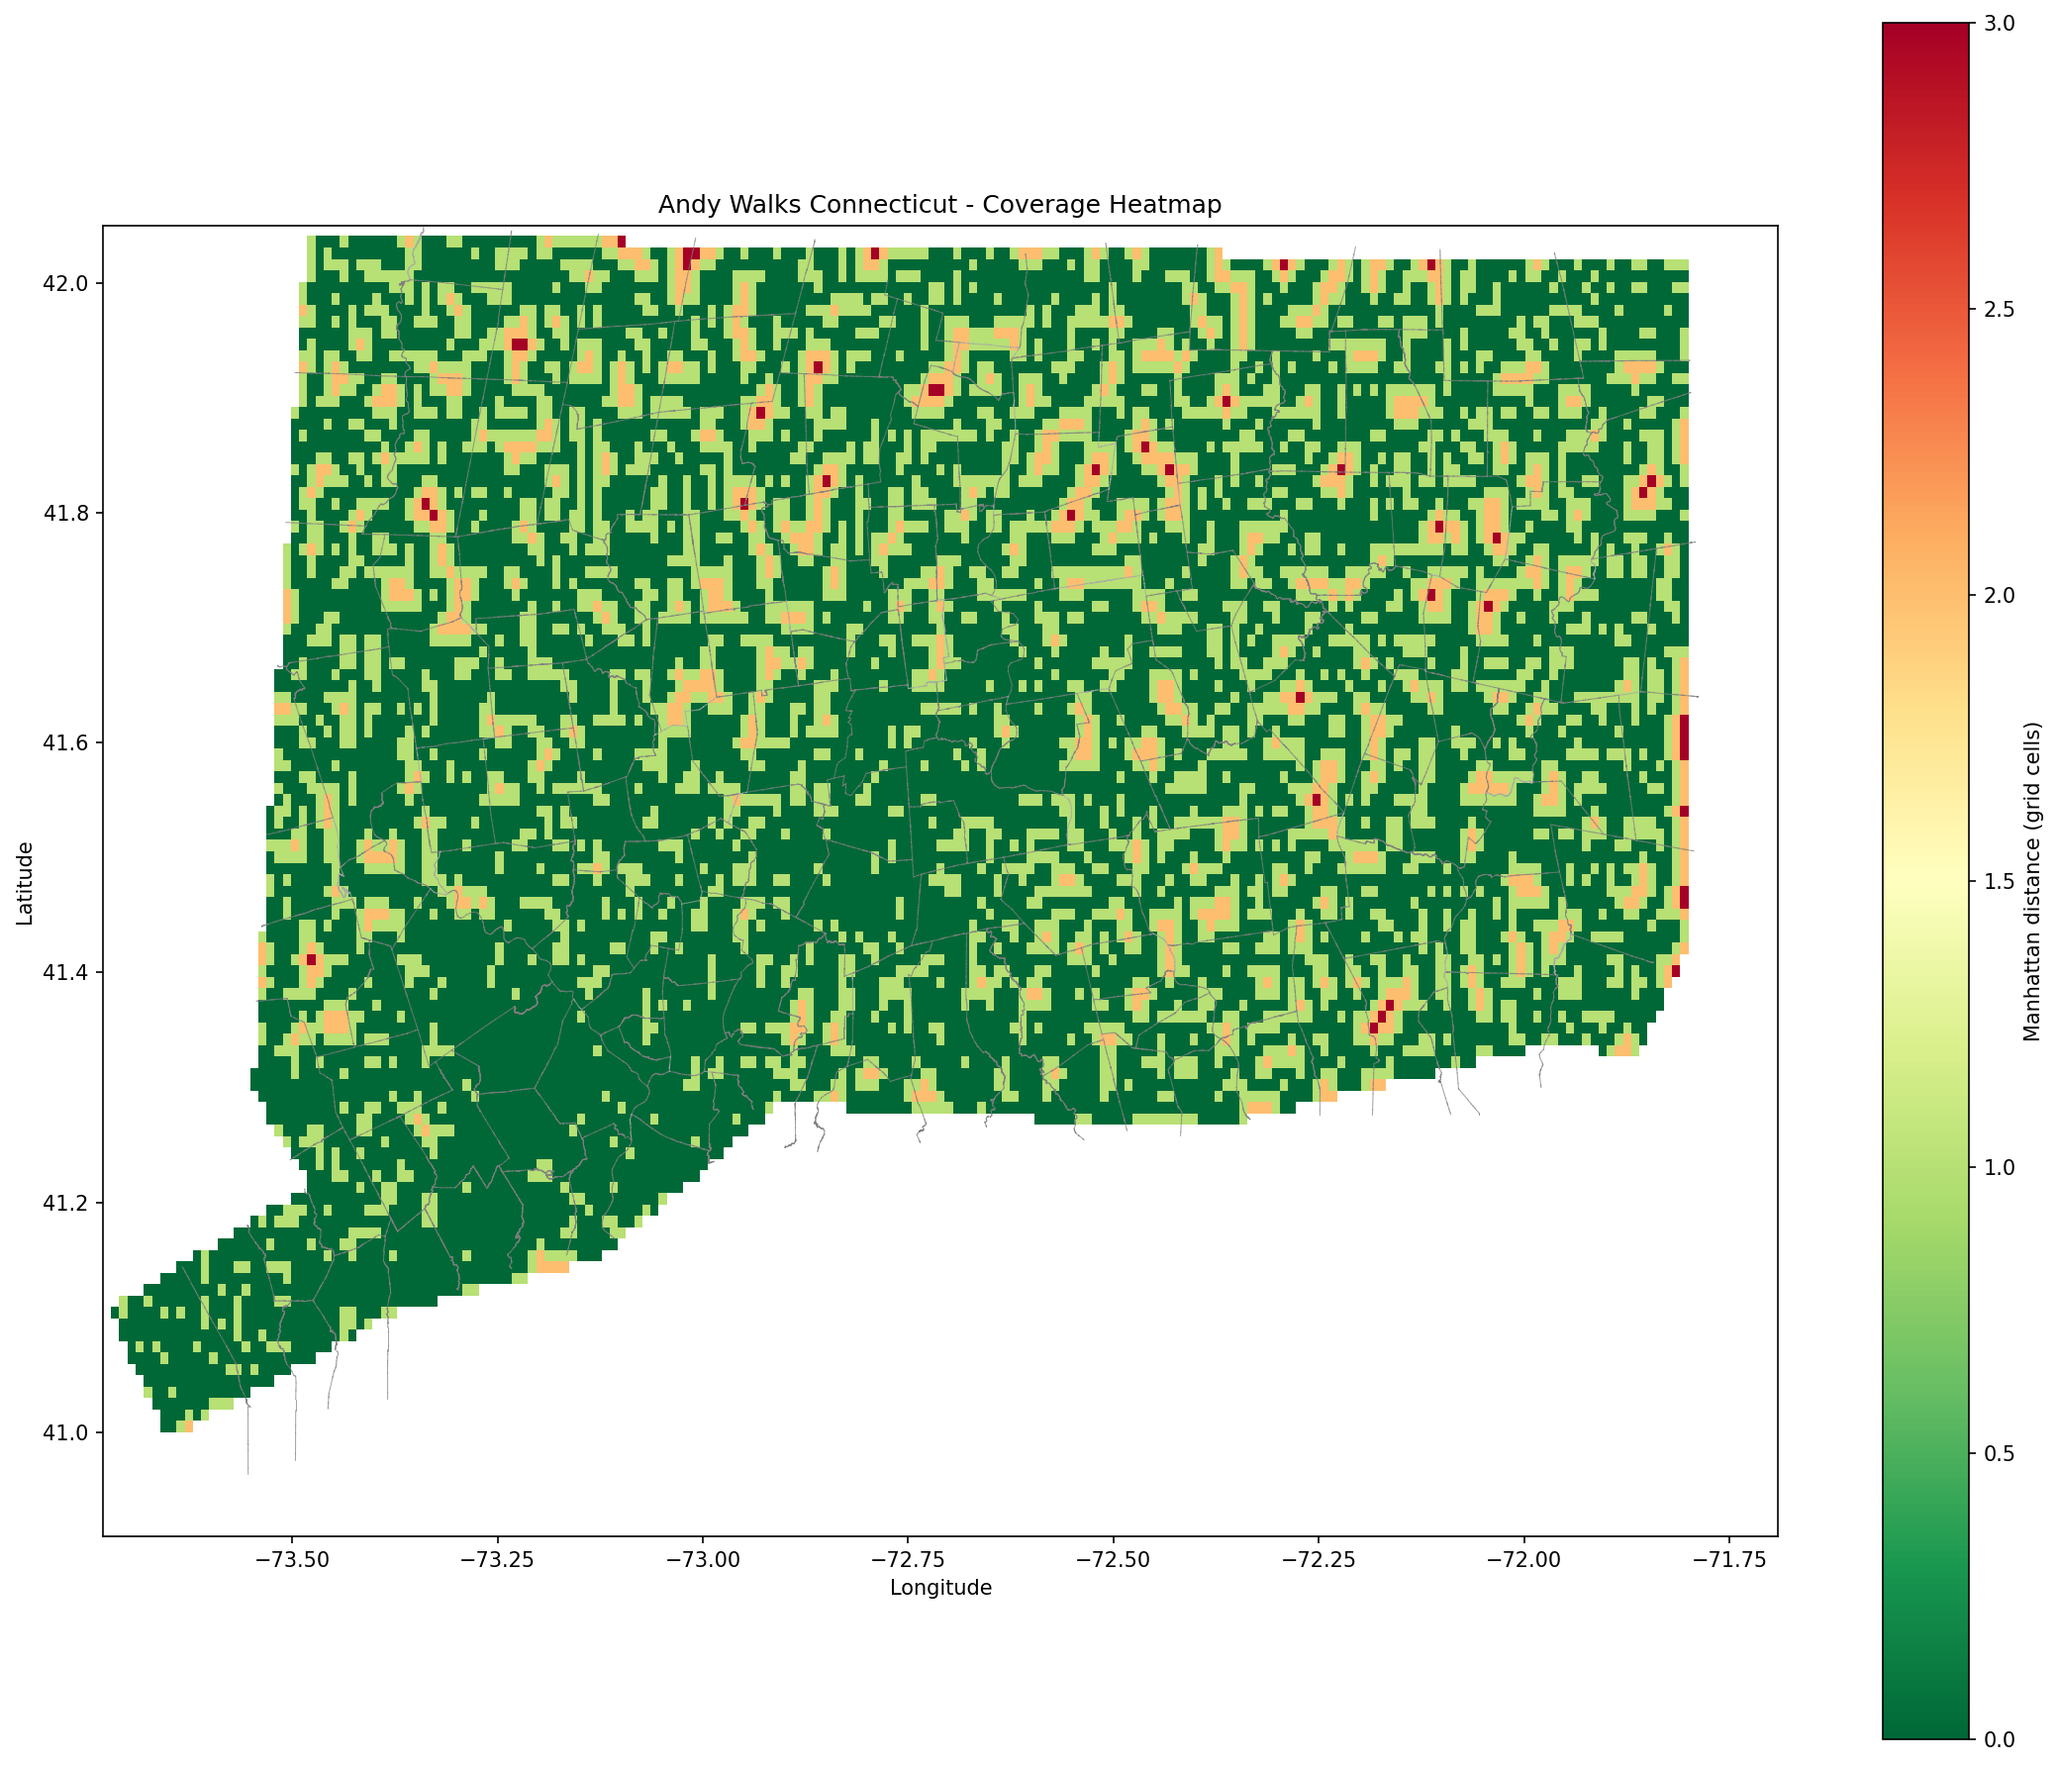
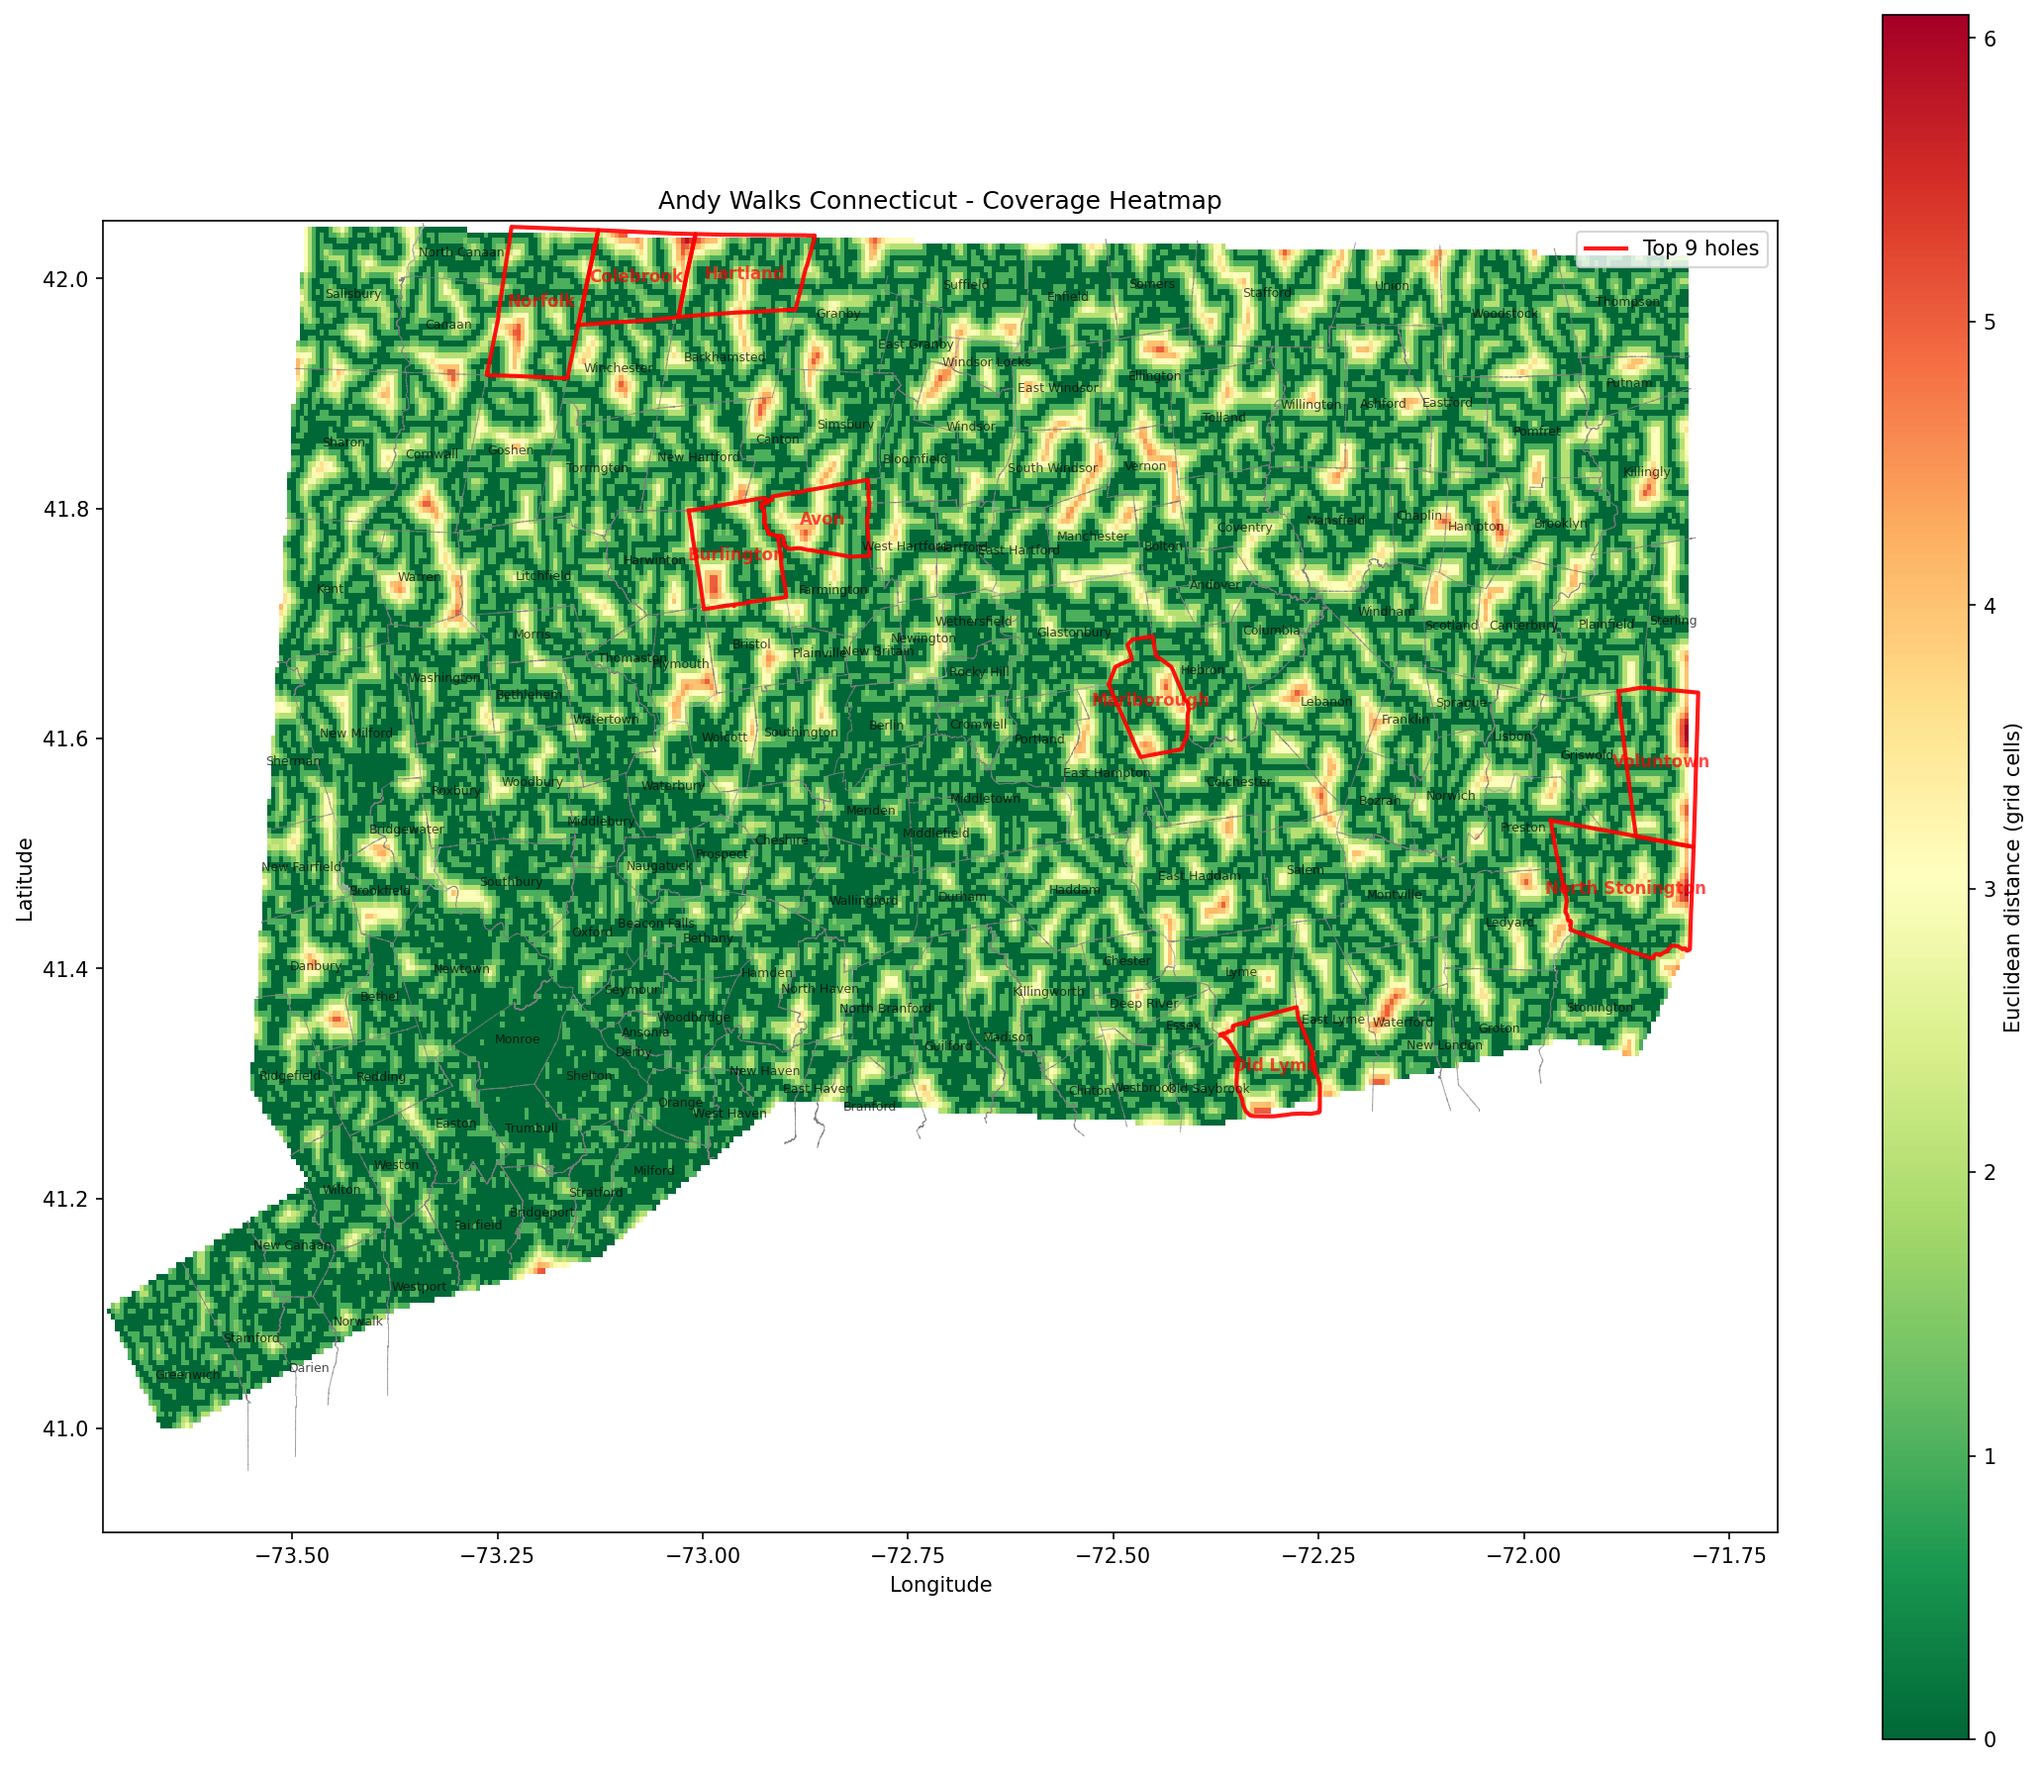
Switch heatmap to Euclidean distance with town analysis and labels
- Replace Manhattan distance with Euclidean distance (distance_transform_edt)
- Load 3-decimal lat/long data rounded to .005 resolution (20 values per degree)
- Update grid step to match 0.005 resolution for proper visualization
- Add distance histogram with 1-decimal precision and cumulative percentages
- Identify top 9 towns with largest unwalked holes (max distance per town)
- Add town name labels to heatmap (black 6pt regular, red 8pt bold for top 9)
- Highlight top 9 town boundaries in red with legend
- Filter out water areas ("[County subdivisions not defined]")

Files:
 M src/plotmap/heatmap.png
 M src/plotmap/heatmap.py

diff --git a/src/plotmap/heatmap.py b/src/plotmap/heatmap.py
@@ -1,8 +1,8 @@
 """
-Build a Manhattan distance heatmap from walked coordinates.
+Build a Euclidean distance heatmap from walked coordinates.
 
-Loads all 2-decimal lat/long parquet files, builds a grid, and computes
-the Manhattan distance from each grid cell to the nearest walked location.
+Loads all 3-decimal lat/long parquet files, builds a grid, and computes
+the Euclidean distance from each grid cell to the nearest walked location.
 Renders as a heatmap and saves as PNG.
 """
 
@@ -19,7 +19,7 @@ from pathlib import Path
 from matplotlib.collections import LineCollection
 
 # Configuration
-GRID_STEP = 0.01  # 2-decimal precision
+GRID_STEP = 0.005  # Matches .005, .010, .015, etc. resolution
 CT_BBOX = {
     'lat_min': 41.00,
     'lat_max': 42.05,
@@ -149,9 +149,16 @@ def get_town_boundaries():
     return walked_lines, unwalked_lines
 
 
+def round_to_nearest_multiple_of_005(value):
+    """Round to nearest .005 thousandths (.005, .010, .015, .020, etc)"""
+    scaled = value * 1000
+    rounded_scaled = int(np.round(scaled / 5) * 5)
+    return rounded_scaled / 1000
+
+
 def load_walked_coordinates():
-    """Load all 2-decimal parquet files and combine."""
-    parquet_files = sorted(glob.glob("../../data/lat_long.2.*.parquet"))
+    """Load all 3-decimal parquet files and combine, then round to even thousandths."""
+    parquet_files = sorted(glob.glob("../../data/lat_long.3.*.parquet"))
 
     print(f"Loading {len(parquet_files)} parquet files...")
     dfs = []
@@ -160,6 +167,11 @@ def load_walked_coordinates():
         dfs.append(df)
 
     combined = pd.concat(dfs, ignore_index=True)
+
+    # Round to nearest .005 thousandths (.005, .010, .015, .020, etc.)
+    combined['lat'] = combined['lat'].apply(round_to_nearest_multiple_of_005)
+    combined['lon'] = combined['lon'].apply(round_to_nearest_multiple_of_005)
+
     combined = combined.drop_duplicates(subset=['lat', 'lon']).reset_index(drop=True)
 
     print(f"Total unique walked coordinates: {len(combined)}")
@@ -168,7 +180,7 @@ def load_walked_coordinates():
 
 def build_distance_grid(walked_coords, ct_boundary):
     """
-    Build a grid where each cell contains Manhattan distance to nearest walk.
+    Build a grid where each cell contains Euclidean distance to nearest walk.
 
     Returns:
         distance_grid: 2D array of distances (np.nan outside CT)
@@ -195,10 +207,10 @@ def build_distance_grid(walked_coords, ct_boundary):
 
     print(f"Walked cells marked: {walked_mask.sum()}")
 
-    # Compute Manhattan distance from each unwalked cell to nearest walked cell
-    # distance_transform_cdt expects 1=background, 0=feature
+    # Compute Euclidean distance from each unwalked cell to nearest walked cell
+    # distance_transform_edt expects 1=background, 0=feature
     # So we invert: True (walked) -> 0 (feature), False (unwalked) -> 1 (background)
-    distance_grid = ndimage.distance_transform_cdt(~walked_mask, metric='taxicab').astype(float)
+    distance_grid = ndimage.distance_transform_edt(~walked_mask).astype(float)
 
     print(f"Distance range: {distance_grid.min():.0f} to {distance_grid.max():.0f}")
 
@@ -220,7 +232,158 @@ def build_distance_grid(walked_coords, ct_boundary):
     return distance_grid, extent
 
 
-def render_heatmap(distance_grid, extent, walked_lines=None, unwalked_lines=None):
+def find_towns_with_largest_holes(distance_grid, ct_bbox=CT_BBOX, grid_step=GRID_STEP):
+    """Find towns with largest maximum distances (biggest unwalked holes)."""
+    if not Path("ct_towns.geojson").exists():
+        print("Note: ct_towns.geojson not found. Skipping town analysis.")
+        return
+
+    print("Analyzing towns for largest unwalked holes...")
+    with open("ct_towns.geojson", 'r') as f:
+        towns_geojson = json.load(f)
+
+    # Build lat/lon grids for distance lookups
+    lat_min, lat_max = ct_bbox['lat_min'], ct_bbox['lat_max']
+    lon_min, lon_max = ct_bbox['lon_min'], ct_bbox['lon_max']
+    rows = int(round((lat_max - lat_min) / grid_step)) + 1
+    cols = int(round((lon_max - lon_min) / grid_step)) + 1
+
+    lats = np.linspace(lat_min, lat_max, rows)
+    lons = np.linspace(lon_min, lon_max, cols)
+    lon_grid, lat_grid = np.meshgrid(lons, lats)
+
+    # Extract towns and compute max distance in each
+    town_holes = []
+    for feature in towns_geojson.get('features', []):
+        name = feature['properties'].get('name', '').strip()
+        if not name or 'not defined' in name.lower():
+            continue
+
+        geom = shape(feature['geometry'])
+
+        # Find all grid cells within this town
+        inside_town = contains_xy(geom, lon_grid.ravel(), lat_grid.ravel())
+        inside_town = inside_town.reshape(distance_grid.shape)
+
+        # Get distances within town (excluding NaN)
+        town_distances = distance_grid[inside_town & ~np.isnan(distance_grid)]
+
+        if len(town_distances) > 0:
+            max_dist = np.nanmax(town_distances)
+            town_holes.append((name, max_dist))
+
+    # Sort by max distance descending
+    town_holes.sort(key=lambda x: x[1], reverse=True)
+
+    # Print top 9
+    print("\n" + "="*60)
+    print("Top 9 Towns with Largest Unwalked Holes")
+    print("="*60)
+    print(f"{'Town':30} | {'Max Distance':>12}")
+    print("-"*60)
+
+    top_9_towns = []
+    for i, (town, max_dist) in enumerate(town_holes[:9], 1):
+        print(f"{town:30} | {max_dist:>12.1f}")
+        top_9_towns.append(town)
+
+    print("="*60 + "\n")
+
+    return top_9_towns
+
+
+def print_distance_summary(distance_grid):
+    """Print summary of number of grid cells at each Euclidean distance."""
+    # Flatten and remove NaN values
+    distances = distance_grid[~np.isnan(distance_grid)].flatten()
+
+    if len(distances) == 0:
+        print("No distance data to summarize")
+        return
+
+    # Count points at each distance
+    unique_distances, counts = np.unique(distances, return_counts=True)
+
+    print("\n" + "="*60)
+    print("Euclidean Distance Summary")
+    print("="*60)
+    print(f"{'Distance':>10} | {'Cell Count':>15} | {'Cumulative %':>12}")
+    print("-"*60)
+
+    total = len(distances)
+    cumulative = 0
+
+    for dist, count in zip(unique_distances, counts):
+        cumulative += count
+        pct = (cumulative / total) * 100
+        print(f"{dist:>10.1f} | {count:>15} | {pct:>11.1f}%")
+
+    print("-"*60)
+    print(f"{'TOTAL':>10} | {total:>15}")
+    print("="*60 + "\n")
+
+
+def add_town_labels(ax, highlight_towns=None):
+    """Add town name labels to the heatmap."""
+    if not Path("ct_towns.geojson").exists():
+        return
+
+    with open("ct_towns.geojson", 'r') as f:
+        towns_geojson = json.load(f)
+
+    for feature in towns_geojson.get('features', []):
+        name = feature['properties'].get('name', '').strip()
+        if not name or 'not defined' in name.lower():
+            continue
+
+        geom = shape(feature['geometry'])
+        centroid = geom.centroid
+
+        # Determine label color and size
+        if highlight_towns and name in highlight_towns:
+            color = 'red'
+            fontsize = 8
+            weight = 'bold'
+        else:
+            color = 'black'
+            fontsize = 6
+            weight = 'normal'
+
+        ax.text(centroid.x, centroid.y, name, fontsize=fontsize,
+                color=color, weight=weight, ha='center', va='center',
+                alpha=0.7)
+
+
+def get_town_boundary_lines(town_names):
+    """Extract boundary lines for specified towns from GeoJSON."""
+    if not Path("ct_towns.geojson").exists():
+        return []
+
+    with open("ct_towns.geojson", 'r') as f:
+        towns_geojson = json.load(f)
+
+    boundary_lines = []
+    for feature in towns_geojson.get('features', []):
+        name = feature['properties'].get('name', '').strip()
+        if name and 'not defined' not in name.lower() and name in town_names:
+            geom = shape(feature['geometry'])
+            boundary = geom.boundary
+
+            # Extract coordinates from boundary
+            if hasattr(boundary, 'geoms'):  # MultiLineString
+                for line in boundary.geoms:
+                    coords = list(line.coords)
+                    if coords:
+                        boundary_lines.append(coords)
+            else:  # LineString
+                coords = list(boundary.coords)
+                if coords:
+                    boundary_lines.append(coords)
+
+    return boundary_lines
+
+
+def render_heatmap(distance_grid, extent, walked_lines=None, unwalked_lines=None, highlight_towns=None):
     """Render distance grid as heatmap with optional town boundaries."""
     fig, ax = plt.subplots(figsize=(15, 12))
 
@@ -249,11 +412,26 @@ def render_heatmap(distance_grid, extent, walked_lines=None, unwalked_lines=None
             lats = [c[1] for c in coords]
             ax.plot(lons, lats, color='darkgray', linewidth=0.5, alpha=0.7)
 
-    cbar = plt.colorbar(im, ax=ax, label='Manhattan distance (grid cells)')
+    # Highlight top 9 towns with largest holes
+    if highlight_towns:
+        highlight_lines = get_town_boundary_lines(highlight_towns)
+        for coords in highlight_lines:
+            lons = [c[0] for c in coords]
+            lats = [c[1] for c in coords]
+            ax.plot(lons, lats, color='red', linewidth=2, alpha=0.9, label='Top 9 holes' if coords == highlight_lines[0] else '')
+
+    # Add town name labels
+    add_town_labels(ax, highlight_towns)
+
+    cbar = plt.colorbar(im, ax=ax, label='Euclidean distance (grid cells)')
 
     ax.set_xlabel('Longitude')
     ax.set_ylabel('Latitude')
     ax.set_title('Andy Walks Connecticut - Coverage Heatmap')
+
+    # Add legend if highlighting towns
+    if highlight_towns:
+        ax.legend(loc='upper right', fontsize=10)
 
     plt.tight_layout()
     plt.savefig(OUTPUT_PNG, dpi=150, bbox_inches='tight')
@@ -272,11 +450,17 @@ def main():
     # Build grid with distances
     distance_grid, extent = build_distance_grid(walked_coords, ct_boundary)
 
+    # Print distance summary
+    print_distance_summary(distance_grid)
+
+    # Find towns with largest holes
+    top_5_towns = find_towns_with_largest_holes(distance_grid)
+
     # Load town boundaries (optional)
     walked_lines, unwalked_lines = get_town_boundaries()
 
-    # Render
-    render_heatmap(distance_grid, extent, walked_lines, unwalked_lines)
+    # Render with highlighted top 5 towns
+    render_heatmap(distance_grid, extent, walked_lines, unwalked_lines, top_5_towns)
 
     print("Done!")
 
